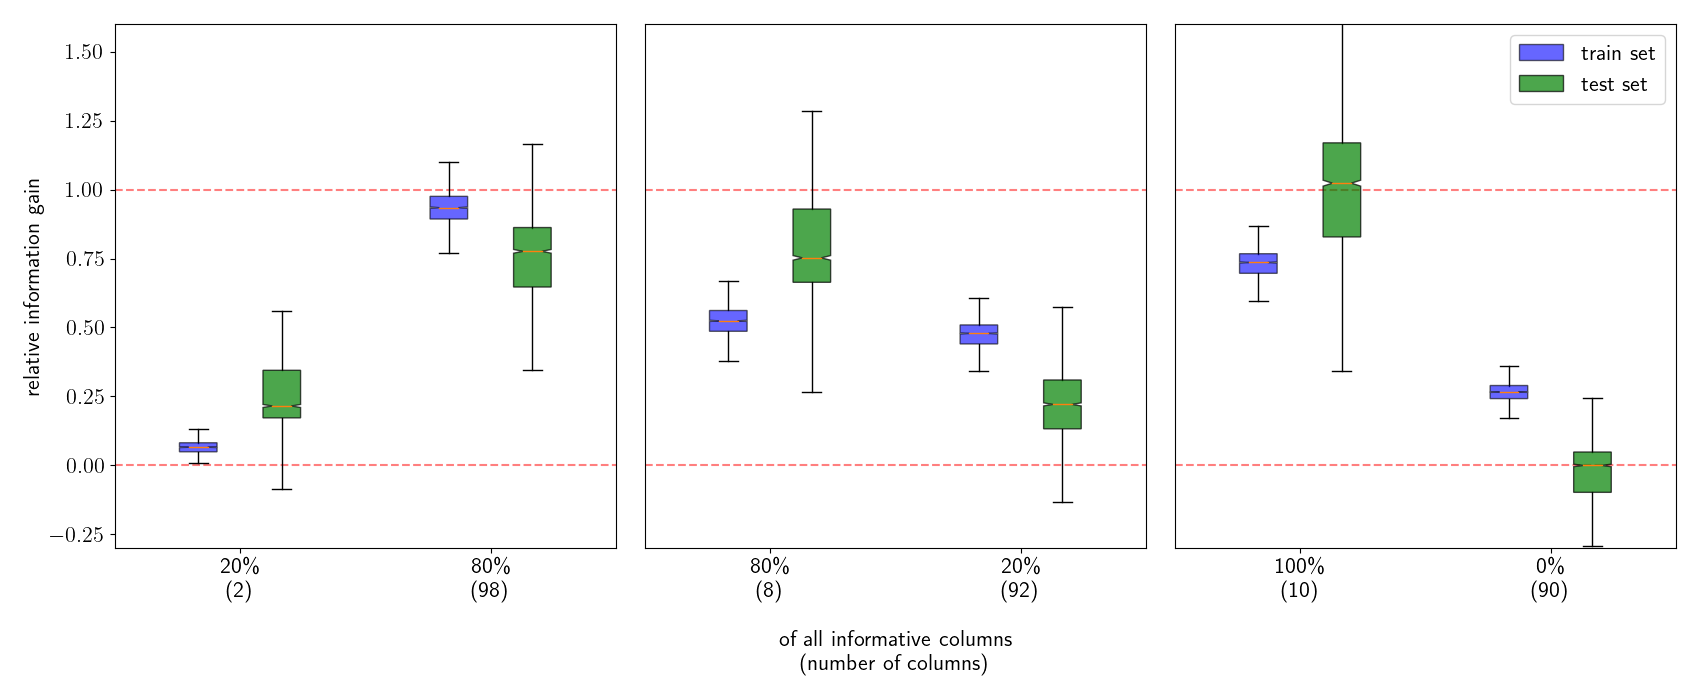
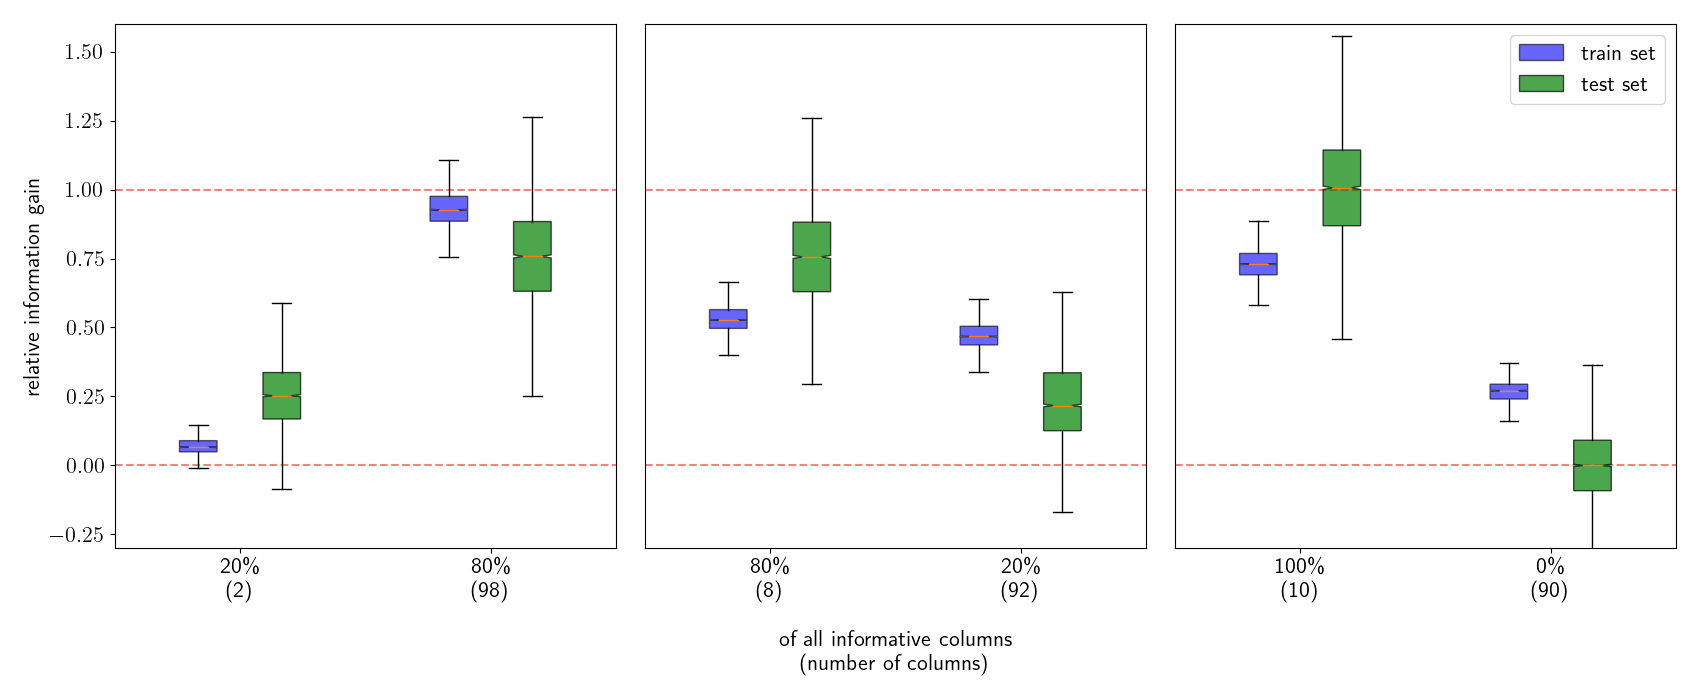
switch to RepeatedStratifiedKFold

diff --git a/examples/breast_cancer.py b/examples/breast_cancer.py
@@ -1,5 +1,5 @@
 from sklearn.datasets import load_breast_cancer
-from sklearn.model_selection import StratifiedShuffleSplit
+from sklearn.model_selection import RepeatedStratifiedKFold
 from sklearn.pipeline import Pipeline
 from sklearn.preprocessing import MinMaxScaler
 from sklearn.svm import SVC
@@ -20,7 +20,7 @@ feature_names = data["feature_names"].tolist()
 X, y = data["data"], data["target"]
 
 model = Pipeline([("MinMax", MinMaxScaler()),  ("SVC", SVC())])
-cv = StratifiedShuffleSplit(n_splits=10, test_size=0.2)
+cv = RepeatedStratifiedKFold()
 
 fig, ax = plt.subplots(1, 2, gridspec_kw={'width_ratios': [1, 3]})
 
@@ -37,7 +37,7 @@ r = grouped_permutation_importance(model, X, y, idxs=idxs,
 sorted_idx = r.importances_mean.argsort()[::-1]
 box = ax[0].boxplot(r.importances[sorted_idx].T,
                     patch_artist=True,
-                    vert=True,
+                    vert=True, showfliers=False, notch=True,
                     labels=np.array(columns)[sorted_idx])
 for patch in box["boxes"]:
     patch.set_facecolor("blue")
@@ -57,6 +57,7 @@ r = grouped_permutation_importance(model, X, y, idxs=idxs,
 sorted_idx = r.importances_mean.argsort()[::-1]
 box = ax[1].boxplot(r.importances[sorted_idx].T,
                     patch_artist=True,
+                    showfliers=False, notch=True,
                     vert=True, labels=np.array(columns)[sorted_idx])
 for patch in box['boxes']:
     patch.set_facecolor("blue")

diff --git a/examples/make_class.py b/examples/make_class.py
@@ -1,6 +1,6 @@
 import numpy as np
 import matplotlib.pyplot as plt
-from sklearn.model_selection import StratifiedShuffleSplit
+from sklearn.model_selection import RepeatedStratifiedKFold
 from sklearn.svm import SVC
 from sklearn.datasets import make_classification
 
@@ -27,7 +27,7 @@ for i, split in enumerate([2, 8, 10]):
     columns = [f"{split*10}\% \n ({len(first)})",
                f"{(10-split)*10}\% \n ({len(second)})"]
 
-    cv = StratifiedShuffleSplit(25, test_size=0.2)
+    cv = RepeatedStratifiedKFold()
 
     model = SVC(class_weight="balanced")
 

diff --git a/examples/brain_atlas.py b/examples/brain_atlas.py
@@ -3,7 +3,7 @@ import numpy as np
 from sklearn.pipeline import Pipeline
 from sklearn.preprocessing import StandardScaler
 from sklearn.svm import SVC
-from sklearn.model_selection import StratifiedShuffleSplit
+from sklearn.model_selection import RepeatedStratifiedKFold
 import matplotlib.pyplot as plt
 
 # please install nilearn
@@ -54,7 +54,7 @@ else:
     y_cdr = data["y_cdr"]
     e_index = data["e_index"]
 
-cv=StratifiedShuffleSplit(n_splits=25, test_size=0.2)
+cv = RepeatedStratifiedKFold()
 imp = []
 for plot_i, y in enumerate([y_age, y_cdr, y_sex]):
 

diff --git a/README.md b/README.md
@@ -25,7 +25,7 @@ columns = ["mean", "error", "worst"]
 for key in columns:
     idxs.append([x for (x, y) in enumerate(feature_names) if key in y])
 
-cv=StratifiedShuffleSplit(n_splits=10, test_size=0.2)
+cv = RepeatedStratifiedKFold()
 pipe = Pipeline([("MinMax", MinMaxScaler()),  ("SVC", SVC())])
 
 
